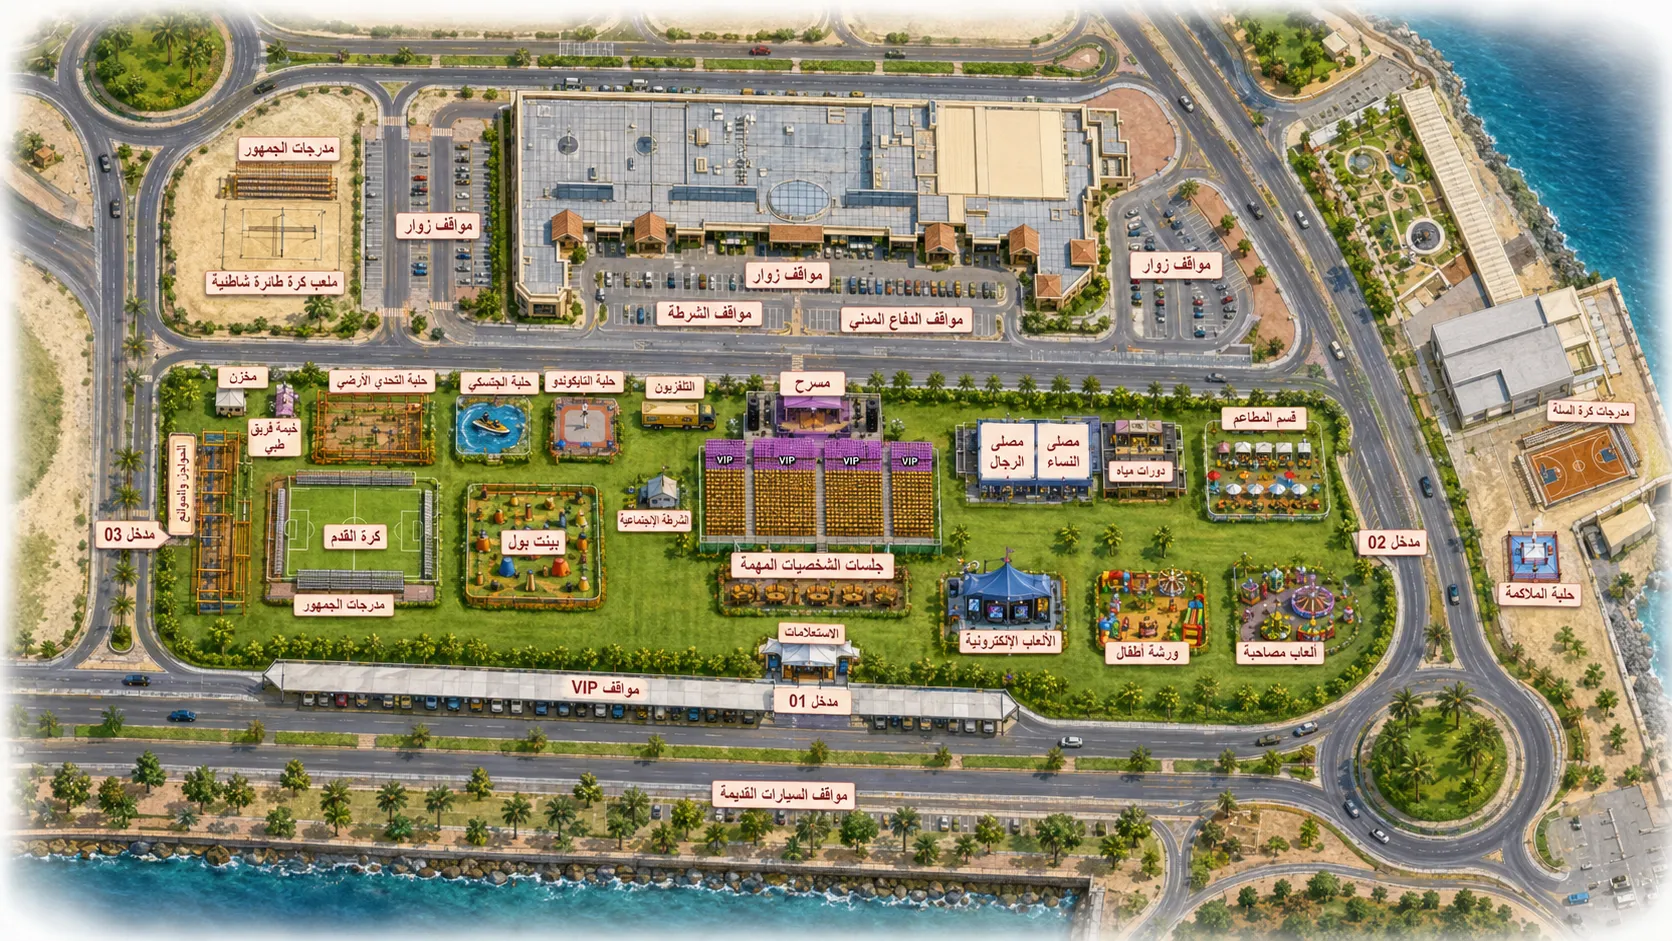
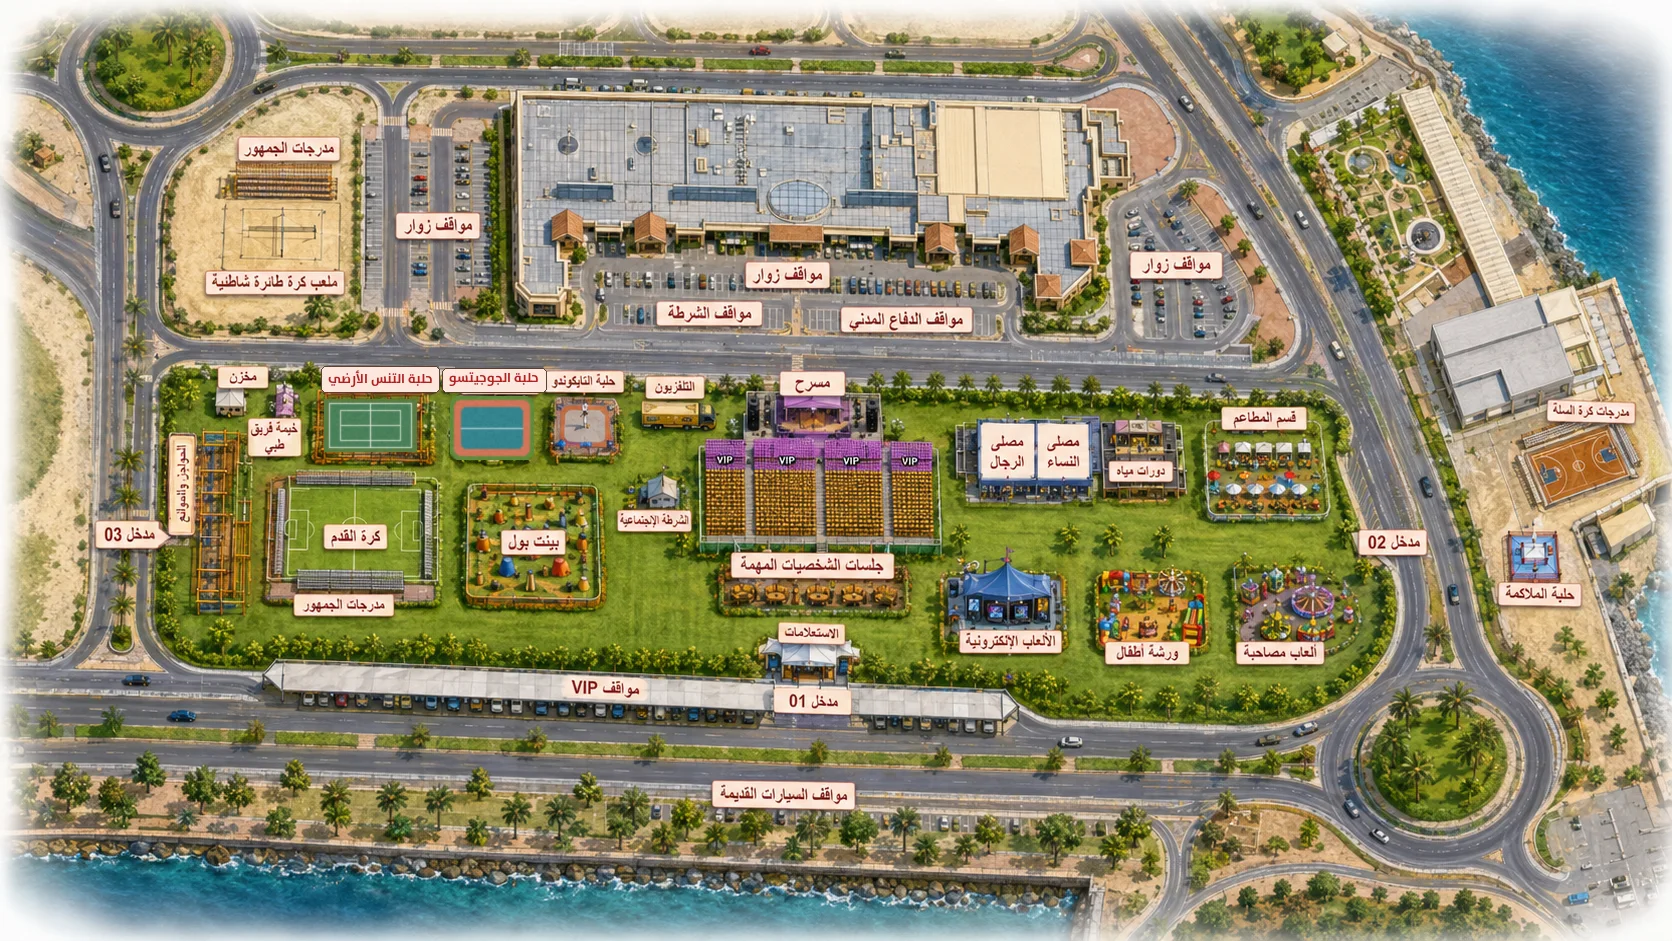
Map matches the official 2026 site plan: tennis and jiu-jitsu arenas
The artwork keeps the approved original illustration and patches only
the two areas that differed from the official layout: the jet-ski pool
becomes the jiu-jitsu mat (teal with coral border, hedge ring kept) and
the ground-challenge cage becomes the fenced tennis court, both with
new Arabic label pills rendered in TheSans Bold to match the existing
ones. Zone data renames ground-challenge to tennis and centers both
markers on their arenas; all other areas already matched the plan.

Changed region(s): [[0.1866, 0.3698, 0.3421, 0.4931]]

diff --git a/kalbaMapZones.js b/kalbaMapZones.js
@@ -40,15 +40,15 @@ window.KALBA_MAP = {
       hours: '16:00–22:00', status: 'live', capacity: 400,
       schedule: [{ t: '16:30', ar: 'دور المجموعات', en: 'Group stage' }, { t: '20:00', ar: 'مباراة استعراضية', en: 'Exhibition match' }] },
 
-    { id: 'ground-challenge', nameAr: 'حلبة التحدي الأرضي', nameEn: 'Ground Challenge Arena',
-      x: 23.6, y: 41.5, category: 'sports', icon: 'flag',
-      descAr: 'تحديات لياقة أرضية أمام الجمهور على مدار اليوم.',
-      descEn: 'Open-floor fitness challenges running throughout the day.',
+    { id: 'tennis', nameAr: 'حلبة التنس الأرضي', nameEn: 'Tennis Court',
+      x: 22.2, y: 45.2, category: 'sports', icon: 'flag',
+      descAr: 'منافسات التنس الأرضي على الملعب المسيّج غرب أرض المهرجان.',
+      descEn: 'Tennis competition on the fenced court at the west of the grounds.',
       hours: '16:00–21:00', status: 'open', capacity: 150,
-      schedule: [{ t: '17:00', ar: 'تصفيات التحدي', en: 'Challenge heats' }] },
+      schedule: [{ t: '17:00', ar: 'تصفيات الفردي', en: 'Singles heats' }] },
 
     { id: 'jiujitsu', nameAr: 'حلبة الجوجيتسو', nameEn: 'Jiu-Jitsu Arena',
-      x: 30.1, y: 42.0, category: 'sports', icon: 'martial',
+      x: 29.4, y: 45.5, category: 'sports', icon: 'martial',
       descAr: 'منافسات الجوجيتسو على البساط المخصص وسط أرض المهرجان.',
       descEn: 'Jiu-jitsu competition on the dedicated mat at the heart of the grounds.',
       hours: '16:00–21:00', status: 'open', capacity: 200,
